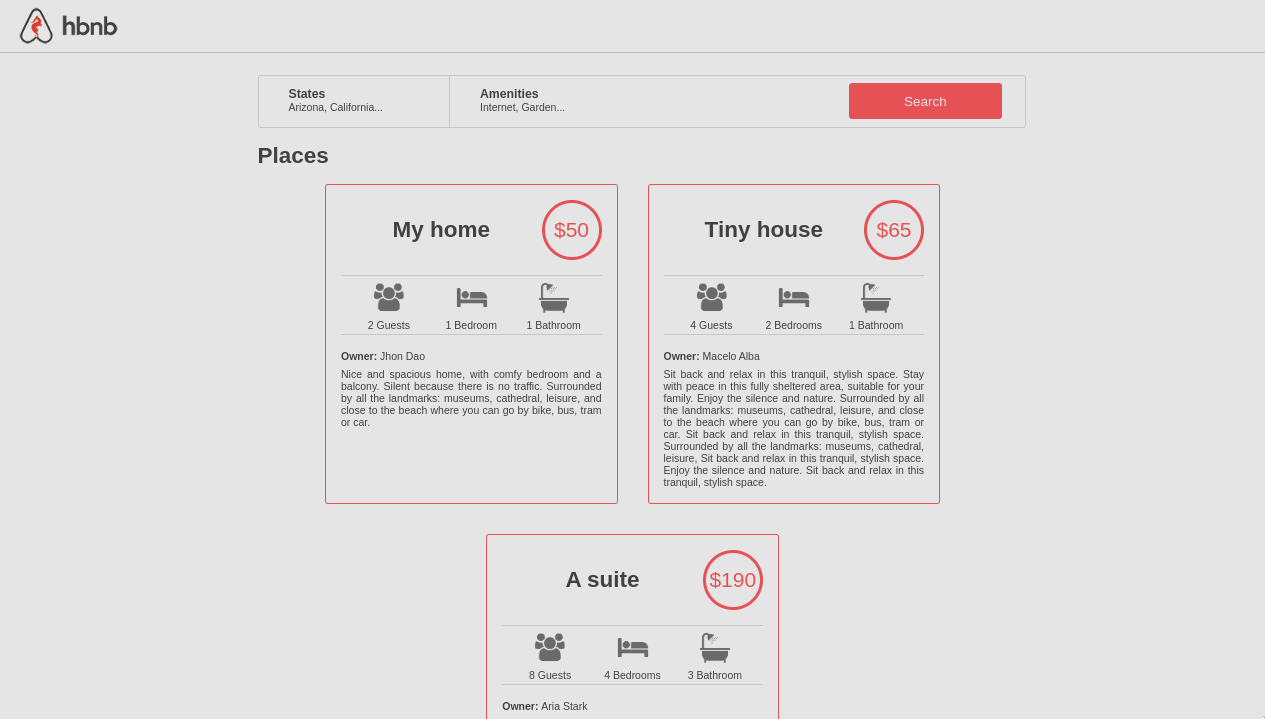
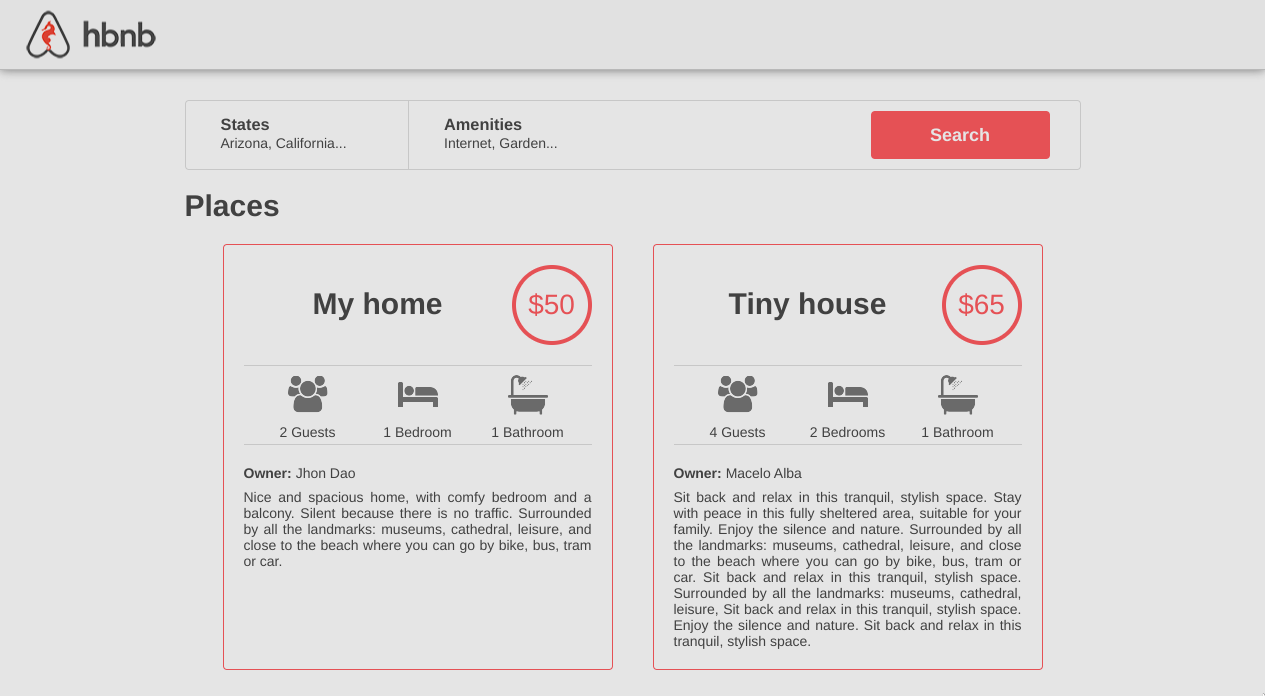
web_static style update

diff --git a/web_static/styles/6-filters.css b/web_static/styles/6-filters.css
@@ -11,8 +11,8 @@
 	border-right: 1px solid #DDDDDD;
 }
 .filters > div {
-	width: 25%; height: 100%;
-	padding: 15px 15px 15px 40px;
+	min-width: 25%; height: 100%;
+	padding: 15px 35px;
 	position: relative;
 }
 .popover {
@@ -38,6 +38,7 @@
 	font-size: 14px;
 }
 .filters button {
+	font-weight: 600;
 	width: 20%; height: 48px;
 	background-color: #FF5A5F;
 	font-size: 18px; color: #FFFFFF;
@@ -47,4 +48,10 @@
 .filters button:hover {
 	opacity: 0.9;
 	cursor: pointer;
+}
+
+@media all and (max-width: 700px) {
+	.filters .amenities {
+		display: none;
+	}
 }

diff --git a/index.html b/index.html
@@ -2,6 +2,7 @@
 <html lang="en">
 	<head>
 		<title>AirBnB clone</title>
+		<meta name="viewport" content="width=device-width, initial-scale=1">
 		<link rel="icon" type="image/x-icon" href="./web_static/images/icon.png">
 		<link rel="stylesheet" href="./web_static/styles/4-common.css">
 		<link rel="stylesheet" href="./web_static/styles/3-header.css">

diff --git a/web_static/styles/3-header.css b/web_static/styles/3-header.css
@@ -1,6 +1,10 @@
 header {
-	border-bottom: 1px solid #CCCCCC;
-	height: 70px; width: 100%;
+    border-bottom: 1px solid #CCCCCC;
+    height: 70px; width: 100%;
+    position: fixed;
+    z-index: 1;
+    background-color: #fafafa;
+    box-shadow: 0px 0px 10px gray;
 }
 .topLogo {
 	background-image: url('../images/logo.png');

diff --git a/web_static/styles/4-common.css b/web_static/styles/4-common.css
@@ -16,4 +16,10 @@ body {
 	width: 70vw;
 	max-width: 1000px;
 	margin: 30px auto;
+	margin-top: 100px;
+}
+@media all and (max-width: 700px) {
+	.container {
+		width: 90vw;
+	}
 }

diff --git a/web_static/styles/3-footer.css b/web_static/styles/3-footer.css
@@ -5,4 +5,7 @@ footer {
 	display: flex;
 	justify-content: center;
 	align-items: center;
+	font-size: larger;
+	font-weight: 700;
+	background: #fafafa;
 }
